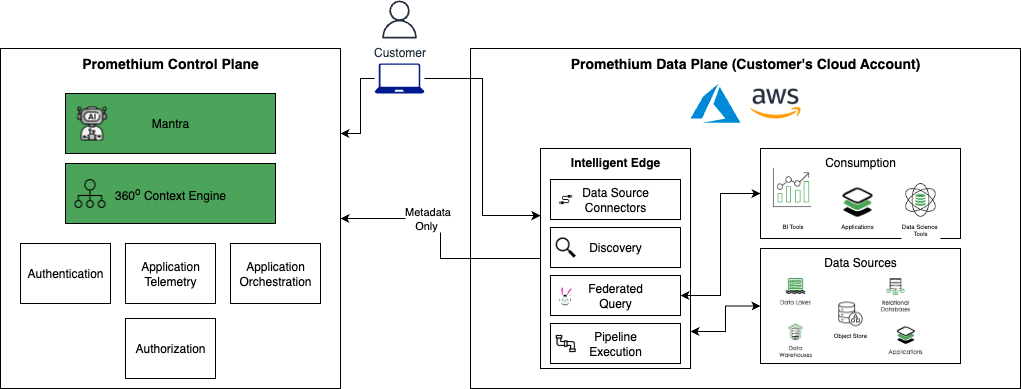
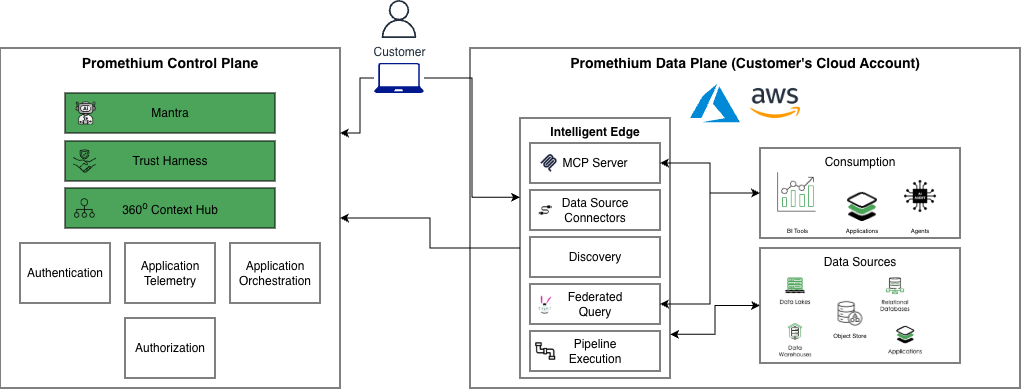
Merge pull request #22 from promethium-ai/Add-MCP-to-High-Level-Architecture
Add MCP to High Level Architecture

Pull request: Add MCP to High Level Architecture

diff --git a/README.md b/README.md
@@ -12,7 +12,7 @@ Promethium Control Plane. The Promethium Control Plane is hosted and managed by 
 - Application orchestration
 - Application Telemetry
 
-Promethium Data Plane (Intelligent Edge). The Promethium Data Plane is installed within the customers cloud provider as a private cluster. The data plane has connectivity to all data platforms. This ensures all data remains within the customers private network. Data exposed to an end user flows directly from the data plane to the users browser requiring all users to be part of the the customers private network. No data is exposed to the Promethium Control Plane. Customer is responsible for the management and monitoring of the Data Plane infrastructure. Promethium is responsible for the Application layer management and monitoring. The scope of the Data Plane is;
+The Promethium Data Plane is installed within the customers cloud provider as a private cluster. The data plane has connectivity to all data platforms. This ensures all data remains within the customers private network. Data exposed to an end user flows directly from the data plane to the users browser requiring all users to be part of the the customers private network. By default, no data is shared with the Promethium Control Plane. Customer is responsible for the management and monitoring of the Data Plane infrastructure. Promethium is responsible for the Application layer management and monitoring. The scope of the Data Plane is;
 
 - Data Platform Connections
 - Metadata Discovery